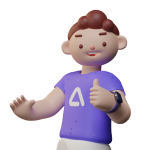
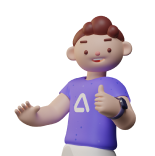
popup adoptive

diff --git a/css/block/popup.css b/css/block/popup.css
@@ -26,8 +26,8 @@
     position: absolute;
     right: 0;
     bottom: 0;
-    width: 150px;
-    height: 150px;
+    width: 155px;
+    height: 156px;
 }
 
 .popup__head {
@@ -65,6 +65,7 @@
     display: flex;
     gap: 20px;
     padding: 32px 0;
+    line-height: 140%;
 }
 
 .popup__description {
@@ -80,9 +81,74 @@
     justify-content: center;
     border-radius: 30px;
     background: #EAECFF;
+}
+
+.popup__field:not(:last-child) {
     margin-bottom: 4px;
 }
 
-@media (max-width: 768px) {
-    
+.popup__close {
+    position: absolute;
+    top: 12px;
+    right: 12px;
+}
+
+@media (max-width: 1024px) {
+    .popup {
+        top: 486px;
+    }
+}
+
+@media (max-width: 824px) {
+    .popup {
+        width: 680px;
+        left: calc(50% - 340px);
+        padding: 24px;
+        top: 459px;
+    }
+    .popup__info {
+        gap: 10px;
+    }
+    .popup__description {
+        max-width: 418px;
+    }
+}
+
+@media (max-width: 720px) {
+    .popup {
+        width: 290px;
+        height: 619px;
+        left: calc(50% - 145px);
+        padding: 24px 15px;
+        top: 448px;
+    }
+    .popup::after {
+        display: none;
+    }
+    .popup__head {
+        gap: 8px;
+    }
+    .popup__img {
+        width: 60px;
+        height: 60px;
+    }
+    .popup__company {
+        font-size: 20px;
+        line-height: 120%;
+        letter-spacing: 0.4px;
+    }
+    .popup__name {
+        font-size: 12px;
+        line-height: 120%;
+        margin-top: 4px;      
+    }
+    .popup__info {
+        flex-direction: column;
+        gap: 24px;
+        padding: 24px 0;
+
+    }
+    .popup__fields {
+        max-width: 195px;
+    }
 }

diff --git a/index.html b/index.html
@@ -398,6 +398,7 @@
                 </div>
                 
                 <div class="popup__mail">Отправляйте резюме на <a class="color-violet" href="mailto:CreativePeople@gmail.com">CreativePeople@gmail.com</a></div>
+                <a href="#" class="popup__close" ><img src="img/popup__close.svg" alt="Закрыть окно"></a>
             </div>
         </section>
     </main>

diff --git a/css/block/hero.css b/css/block/hero.css
@@ -1,9 +1,5 @@
 /* hero */
 
-.hero {
-    padding-bottom: 57px;
-}
-
 .hero__title {
     color: var(--color-black);
     font-size: 90px;
@@ -34,6 +30,7 @@
         font-size: 64px;
         letter-spacing: 1.28px;
         width: 580px;
+        padding: 53px 0;
     }
 
     .hero__title::after {
